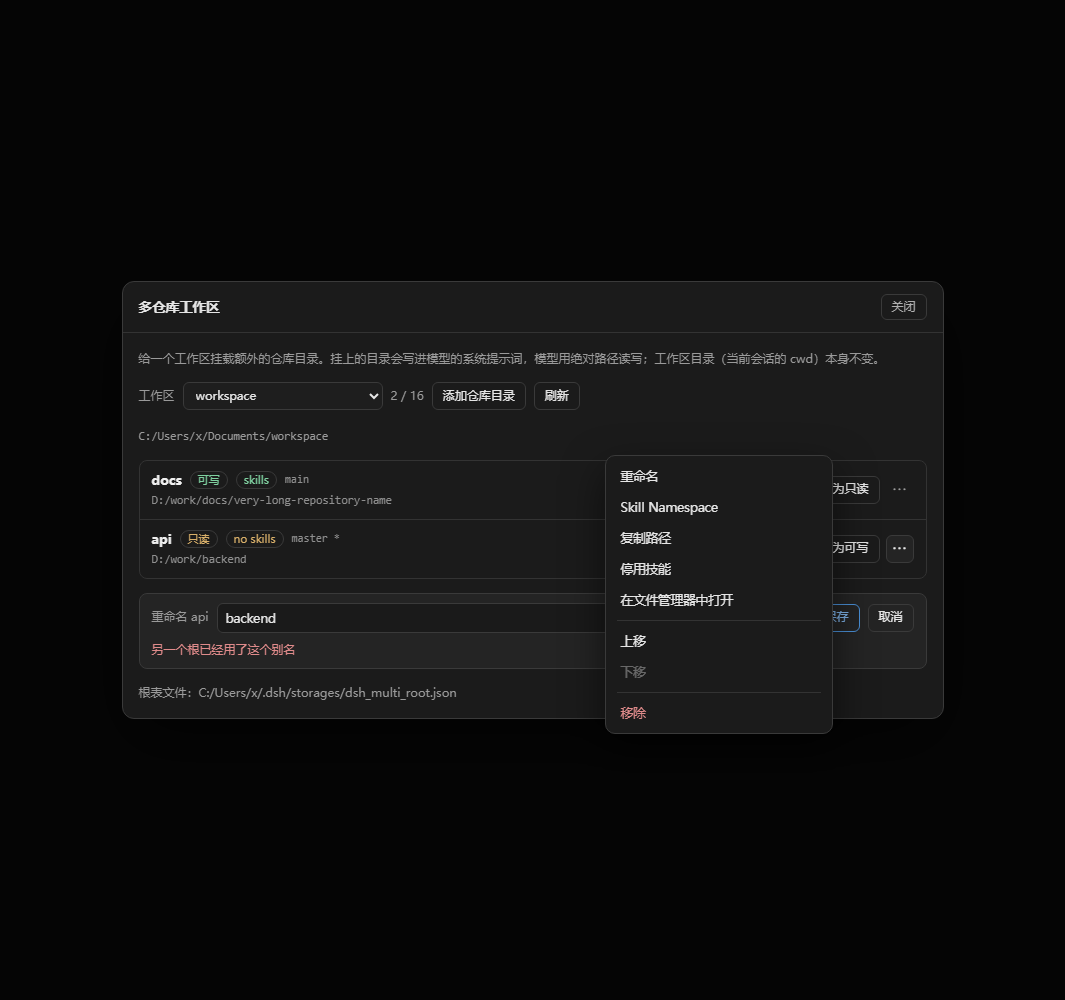
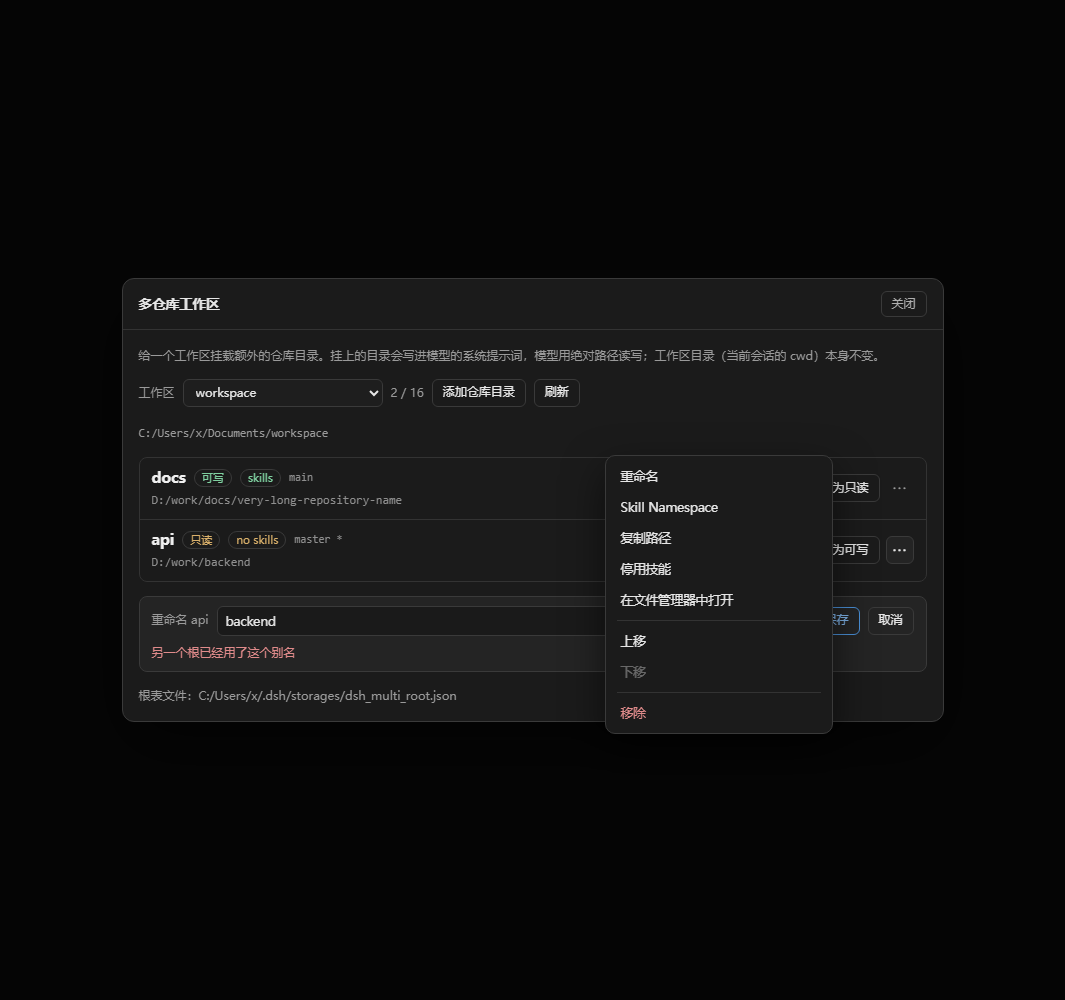
feat(panel): larger aliases, case-preserving labels, no empty git cell

diff --git a/src/client.js b/src/client.js
@@ -96,8 +96,8 @@
         '.mr-item:hover{background:var(--dsw-alias-bg-layer-2,#191919)}',
         '.mr-main{flex:1;min-width:0;display:flex;flex-direction:column;gap:2px}',
         '.mr-line{display:flex;align-items:center;gap:8px;min-width:0}',
-        '.mr-alias{font-size:13px;font-weight:600;color:var(--dsw-alias-label-primary,#f0f0f0);white-space:nowrap}',
-        '.mr-path{min-width:0;color:var(--dsw-alias-label-secondary,#8f8f8f);font-family:ui-monospace,SFMono-Regular,Consolas,monospace;font-size:11.5px;overflow:hidden;text-overflow:ellipsis;white-space:nowrap}',
+        '.mr-alias{font-size:14.5px;font-weight:600;letter-spacing:.01em;color:var(--dsw-alias-label-primary,#f0f0f0);white-space:nowrap}',
+        '.mr-path{min-width:0;color:var(--dsw-alias-label-secondary,#8f8f8f);font-family:ui-monospace,SFMono-Regular,Consolas,monospace;font-size:12px;overflow:hidden;text-overflow:ellipsis;white-space:nowrap}',
         '.mr-badge{flex:none;font-size:11px;line-height:16px;padding:0 7px;border-radius:99px;border:1px solid var(--dsw-alias-border-l1,#3a3a3a);color:var(--dsw-alias-label-secondary,#9a9a9a)}',
         '.mr-badge[data-mode="readwrite"]{color:var(--dsw-alias-state-success-primary,#7fd1a0)}',
         '.mr-badge[data-mode="readonly"]{color:var(--dsw-alias-state-warn-primary,#d9b06a)}',
@@ -633,10 +633,10 @@
                     h('span', { className: 'mr-badge', 'data-mode': root.mode }, formatMode(root.mode)),
                     h('span', { className: 'mr-badge', 'data-mode': root.skillsEnabled === true ? 'readwrite' : 'readonly' },
                       root.skillsEnabled === true ? 'skills' : 'no skills'),
-                    h('span', { className: 'mr-git' },
-                      git === null || git === undefined
-                        ? '—'
-                        : (git.branch || '（无分支）') + (git.dirty ? ' *' : '')),
+                    root.git === null || root.git === undefined
+                      ? null
+                      : h('span', { className: 'mr-git' },
+                        (root.git.branch || '（无分支）') + (root.git.dirty ? ' *' : '')),
                   ),
                   h('span', { className: 'mr-path', title: root.path }, root.path),
                 ),

diff --git a/src/git.js b/src/git.js
@@ -78,14 +78,20 @@ export class GitStatusCache {
   }
 
   /**
-   * The cached status when it is still fresh.
+   * The cached status, when it is still fresh.
+   *
+   * `allowStale` is for display paths (the panel, the prompt table): a five
+   * second old branch name is far better than a blank cell, and the periodic
+   * refresh is what keeps it honest.
+   *
    * @param {string} directory - an absolute directory path.
+   * @param {boolean} [allowStale=false] - return the last known value regardless of age.
    * @returns {{ branch: string, dirty: boolean } | undefined} the status, if known.
    */
-  peek(directory) {
+  peek(directory, allowStale = false) {
     const entry = this.#entries.get(directory)
     if (entry === undefined) return undefined
-    if (Date.now() - entry.at > this.#ttlMs) return undefined
+    if (!allowStale && Date.now() - entry.at > this.#ttlMs) return undefined
     return entry.value
   }
 

diff --git a/src/roots.js b/src/roots.js
@@ -81,8 +81,10 @@ export function normaliseAliasId(value, fallback) {
 export function aliasFor(path) {
   const trimmed = path.replace(/[\\/]+$/, '')
   const base = basename(trimmed) || trimmed.replace(/[^\p{L}\p{N}]+/gu, '')
+  // Case is part of the name a person reads (`PSREF_Backend` is not
+  // `psref_backend`), so it is preserved here. Uniqueness is still decided
+  // case-insensitively — see `uniqueAlias` — so `Api` and `api` cannot coexist.
   const folded = base
-    .toLowerCase()
     .replace(/[^\p{L}\p{N}._-]+/gu, '-')
     .replace(/-{2,}/g, '-')
     .replace(/^[-.]+|[-.]+$/g, '')

diff --git a/src/snapshot.js b/src/snapshot.js
@@ -118,7 +118,7 @@ export class RootSnapshot {
    * @returns {{ branch: string, dirty: boolean } | undefined} cached status, if fresh.
    */
   gitStatus(directory) {
-    return this.#git?.peek(directory)
+    return this.#git?.peek(directory, true)
   }
 
   /**

diff --git a/docs/DESIGN.md b/docs/DESIGN.md
@@ -89,6 +89,8 @@ export function apply(ctx, input) {
 
 `id` 是稳定身份（UUID），所有写操作按 `id → alias → 绝对路径` 命中；`alias` 只是给人看的标签，`aliasId` 是技能命名空间。版本号是 2：读到 v1 时会先补齐 `id`/`aliasId`/`skillsEnabled`/`addedAt` 再**立刻写回**，否则每次读取都会重新生成 id。
 
+派生别名保留目录名原本的大小写（`PSREF_Backend` 不会变成 `psref_backend`），只有唯一性判定是小写不敏感的——`Api` 与 `api` 不能共存，先来的保留原拼写，后到的折成 `api-2`。`aliasId` 相反：它是技能名的前缀，必须是小写 kebab，所以那里仍然强制折叠。
+
 为什么是路径：工作区 id 在 `workspace.json` 里，但插件不该读它（那是官方存储）；而会话给我们的唯一稳定信息就是 `cwd`。`canonicalKey()` 统一分隔符、去尾斜杠、Windows 下小写，于是 `D:\WS` 与 `d:/ws/` 命中同一条。
 
 所有写操作走 `RootStore` 内部的一条 promise 链串行化，避免并发 `attach` 互相覆盖。
@@ -160,6 +162,8 @@ DSH 0.2.2 不要求客户端插件有构建产物：`package.json` 里 `exports[
 工作区选择器的显示值是**名字**、值是**路径**：`workspaceName(item)` 先取 `workspaceRegistry` 给的 `title`，没有就取路径最后一段；选中后紧跟在工具栏下面渲染一行 `.mr-ws-path` 显示完整路径（等宽小字、可换行），所以两个同名工作区也不会认错，而 `<option>` 的 `title` 属性同时挂着完整路径供悬停查看。切工作区只是改查询条件——根表本身按工作区路径分组，切过去自然是那一套。
 
 行尾「⋯」菜单的每一项是 `div[role="menuitem"]` 而不是 `<button>`：宿主里 `<button>` 会被浏览器按系统控件画一遍（浅色按钮底 + 深色文字），即使写了 `background`/`color` 也压不住，真机上就出现「浅灰菜单 + 黑字」和整个弹窗不搭的情况。`div` 没有这些默认绘制，颜色完全由我们给：菜单底色取 `--dsw-alias-bg-layer-1`（与弹窗同一个面）、文字取 `label-primary`、悬停取 `bg-layer-2`、禁用态用 `aria-disabled="true"` 配 `.38` 透明度。键盘上 Enter/Space 触发、Esc 关闭、Tab 可聚焦（`tabIndex` 在禁用时给 `-1`）。
+
+行的信息密度：别名 14.5px/600 是这一行唯一的大字，路径 12px 等宽次要色，徽章 11px；git 分支是可选列——拿不到状态时**整段不渲染**，不画占位符。`GitStatusCache.peek()` 为此加了 `allowStale` 参数：面板和提示词表都取「最后一次已知值」，五行十秒前的分支名也比空白有用。
 
 样式只用 DSH 已发布的主题令牌（`client/Theme/listTokens` 里那 14 个 `--dsw-alias-*` 加 `--dsw-specific-sidebar-fill`），全部带 fallback；早先自造的 `--dsw-text-primary` / `--dsw-surface` / `--dsw-border` 并不存在，等于一直在吃 fallback，所以看起来"不像 DSH"。常用映射：弹窗 `bg-layer-1`、浮层 `bg-overlay`、弱边框 `border-l1`、强边框 `border-l2`、主文字 `label-primary`、次文字 `label-secondary`、错误 `state-error-primary`。
 
